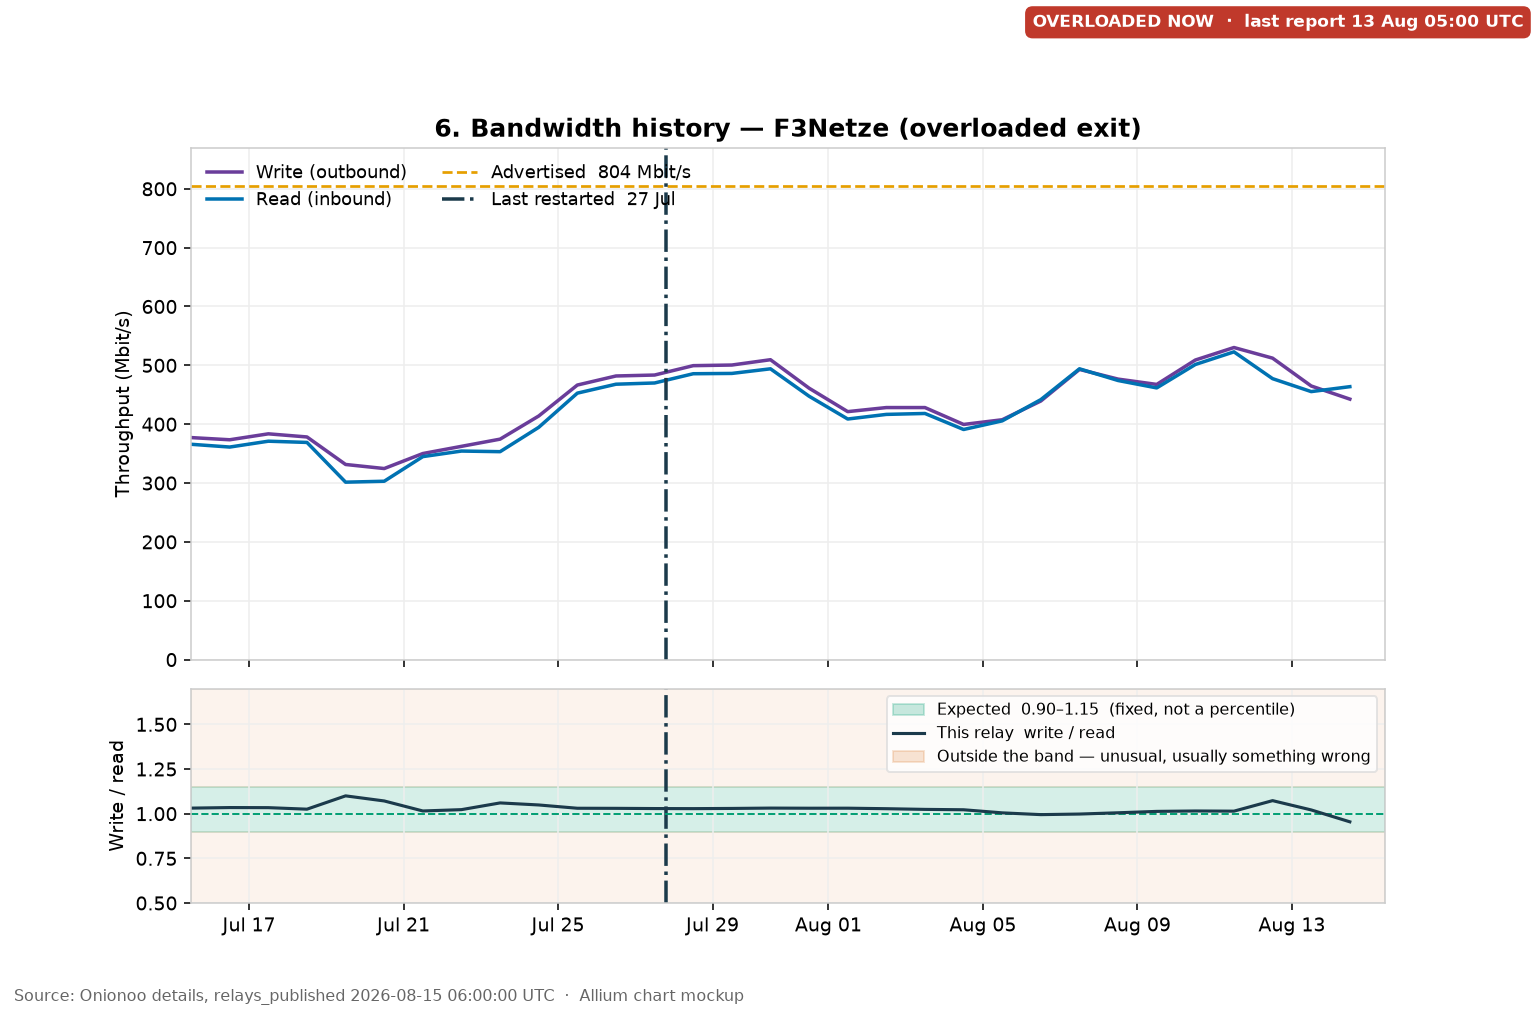
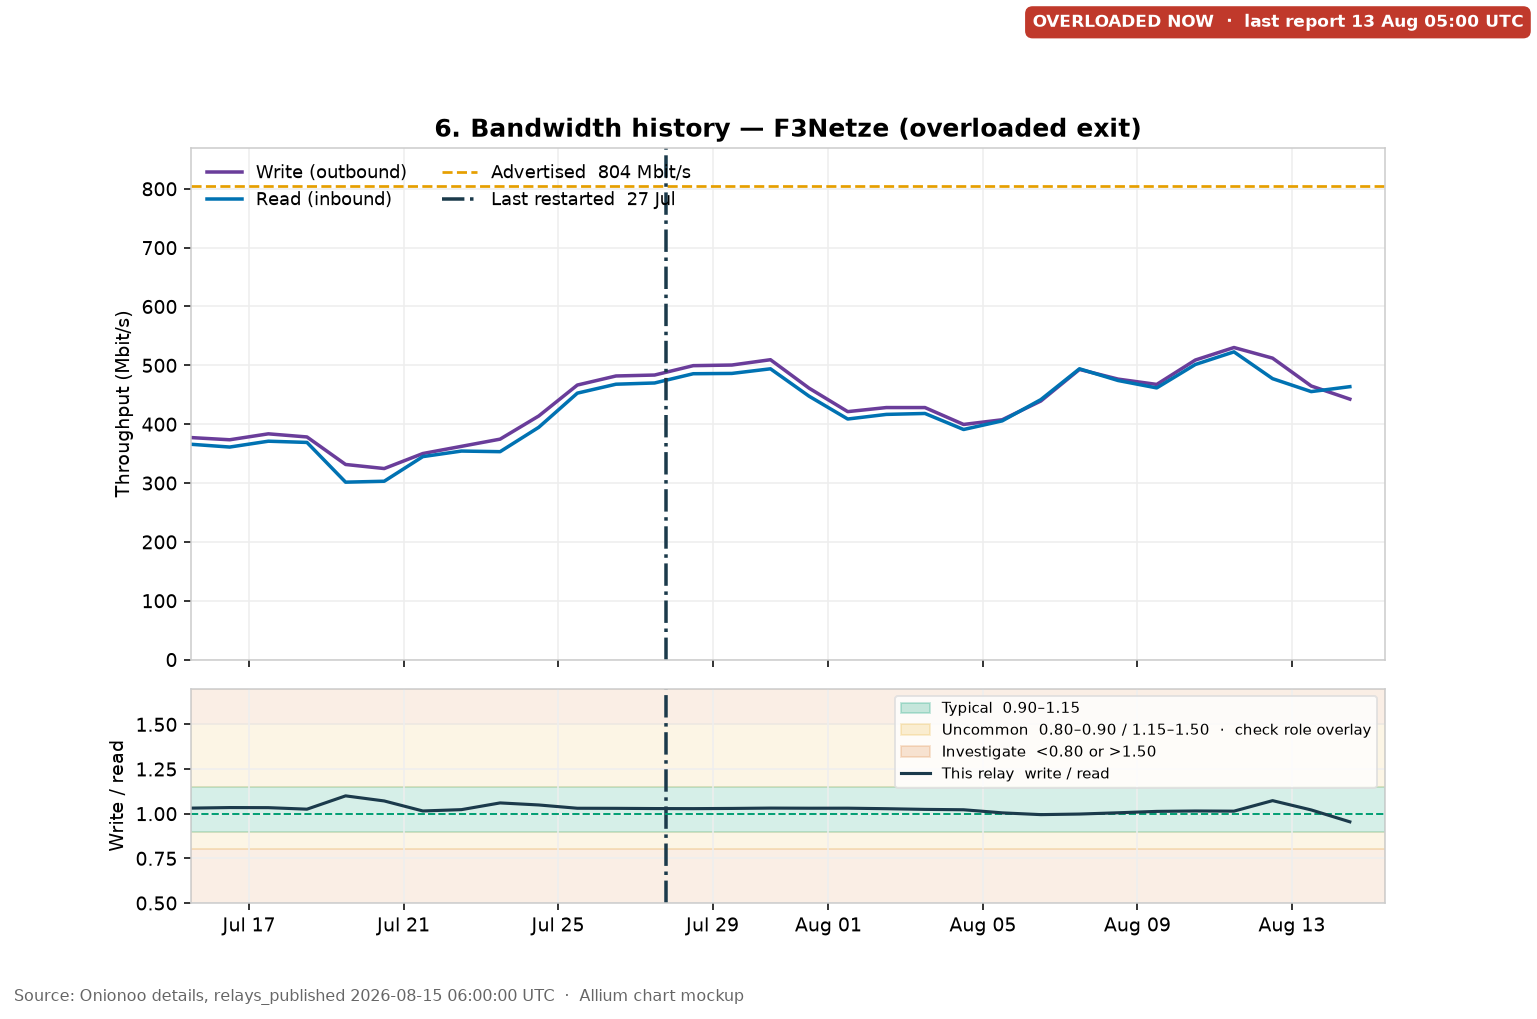
Split write/read into typical, uncommon, and investigate
0.90–1.15 is a typicality band, not an outlier alarm. 1.20 is uncommon
(6.3% of 1M relays, mostly Guards). Red is reserved for <0.80 or >1.50
(2.2% of 1M) — directory authorities and genuinely lopsided relays.

Changed region(s): [[0.5621, 0.6693, 0.9057, 0.791]]

diff --git a/docs/features/planned/charts/generate_relay_page_chart_variations.py b/docs/features/planned/charts/generate_relay_page_chart_variations.py
@@ -43,12 +43,16 @@ NAVY = "#1B3A4B"
 BAD = "#C0392B"
 RESTART = NAVY
 OVERLOAD = BAD
-# Frozen expected write/read range — not a live percentile.
-# Full-network Onionoo census (2026-08-15 19:00, ≥50 KB/s):
-# 1M p10–p90 0.965–1.130, median 1.021. 6M/1Y/5Y tighter.
+# Two frozen write/read layers — not live percentiles.
+# Typical 0.90–1.15 = 1M p10–p90 plus room (89.8% of relays ≥50 KB/s).
+# Investigate <0.80 or >1.50 = rare (2.2% of 1M). 1.20 is uncommon, not an
+# outlier: 6.3% of 1M relays, mostly Guards (Guard p90 is 1.17).
 # A DoS that hits everyone would move a percentile band and hide the event.
 RATIO_LO = 0.90
 RATIO_HI = 1.15
+RATIO_INVESTIGATE_LO = 0.80
+RATIO_INVESTIGATE_HI = 1.50
+AMBER = ORANGE
 TH4R = "27A06581F1CE22D1BA4D160F6E7C7AABAC176242"
 F3NETZE = "3C89C80E2699FB6358BBB64FDC9547AFCB5C03F7"
 PIRATE = "DD32947397C5E6A5FC0D6A6BBE5CD008DEC1A60B"
@@ -923,10 +927,14 @@ def overlay_values(ts, series):
 def ratio_legend_handles(overlays=None):
     handles = [
         Patch(facecolor=GREEN, alpha=0.22, edgecolor=GREEN,
-              label=f"Expected  {RATIO_LO:.2f}–{RATIO_HI:.2f}  (fixed, not a percentile)"),
-        Line2D([0], [0], color=NAVY, linewidth=1.6, label="This relay  write / read"),
+              label=f"Typical  {RATIO_LO:.2f}–{RATIO_HI:.2f}"),
+        Patch(facecolor=AMBER, alpha=0.16, edgecolor=AMBER,
+              label=f"Uncommon  {RATIO_INVESTIGATE_LO:.2f}–{RATIO_LO:.2f} / "
+                    f"{RATIO_HI:.2f}–{RATIO_INVESTIGATE_HI:.2f}  ·  check role overlay"),
         Patch(facecolor=BAD, alpha=0.16, edgecolor=BAD,
-              label="Outside the expected range — unusual, usually something wrong"),
+              label=f"Investigate  <{RATIO_INVESTIGATE_LO:.2f} or "
+                    f">{RATIO_INVESTIGATE_HI:.2f}"),
+        Line2D([0], [0], color=NAVY, linewidth=1.6, label="This relay  write / read"),
     ]
     overlays = overlays or {}
     if overlays.get("role"):
@@ -945,9 +953,11 @@ def ratio_legend_handles(overlays=None):
 def _plot_ratio_strip(axr, ts, read_m, write_m, events, overlays=None):
     overlays = overlays or {}
     ratio = np.array([w / r if r else np.nan for w, r in zip(write_m, read_m)])
+    axr.axhspan(0.45, RATIO_INVESTIGATE_LO, color=BAD, alpha=0.10, zorder=0)
+    axr.axhspan(RATIO_INVESTIGATE_LO, RATIO_LO, color=AMBER, alpha=0.10, zorder=0)
     axr.axhspan(RATIO_LO, RATIO_HI, color=GREEN, alpha=0.16, zorder=0)
-    axr.axhspan(0.45, RATIO_LO, color=BAD, alpha=0.07, zorder=0)
-    axr.axhspan(RATIO_HI, 1.85, color=BAD, alpha=0.07, zorder=0)
+    axr.axhspan(RATIO_HI, RATIO_INVESTIGATE_HI, color=AMBER, alpha=0.10, zorder=0)
+    axr.axhspan(RATIO_INVESTIGATE_HI, 1.85, color=BAD, alpha=0.10, zorder=0)
     axr.axhline(1.0, color=GREEN, linestyle="--", linewidth=1.0, zorder=1)
     role = overlay_values(ts, overlays.get("role"))
     if role is not None:
@@ -955,12 +965,12 @@ def _plot_ratio_strip(axr, ts, read_m, write_m, events, overlays=None):
     op = overlay_values(ts, overlays.get("operator"))
     if op is not None:
         axr.plot(ts, op, color=GRAY, linestyle=":", linewidth=1.6, zorder=2)
-    in_band = (ratio >= RATIO_LO) & (ratio <= RATIO_HI)
-    if in_band.any():
-        y = np.ma.masked_where(~in_band, ratio)
+    investigate = (ratio < RATIO_INVESTIGATE_LO) | (ratio > RATIO_INVESTIGATE_HI)
+    if (~investigate).any():
+        y = np.ma.masked_where(investigate, ratio)
         axr.plot(ts, y, color=NAVY, linewidth=1.7, zorder=3)
-    if (~in_band).any():
-        y = np.ma.masked_where(in_band, ratio)
+    if investigate.any():
+        y = np.ma.masked_where(~investigate, ratio)
         axr.plot(ts, y, color=BAD, linewidth=2.0, zorder=4)
     draw_event_lines(axr, events)
     pad_xlim(axr, ts)
@@ -1010,14 +1020,14 @@ def bandwidth_a_dual_line(ts, read_m, write_m, advertised_mbit, events, publishe
     fam_out = (overlays or {}).get("family_outliers") or 0
     caption(
         fig, published,
-        f"Story: this relay mean write/read {mean_ratio:.2f}, inside the fixed "
-        f"{RATIO_LO:.2f}–{RATIO_HI:.2f} expected range (not a live percentile — "
-        f"a network DoS would move a percentile band and hide it). Exit+Guard "
-        f"peers and this operator’s family median sit on top of it. "
-        f"{fam_out} of {fam_n} family relays have a month-mean above 1.15; "
-        f"this one does not. Delivered write ~{np.mean(write_m):.0f} Mbit/s "
-        f"({used:.0f}% of advertised). Overload is a now-badge, not a time "
-        f"range — Onionoo has no incident history.",
+        f"Story: this relay mean write/read {mean_ratio:.2f}, inside typical "
+        f"{RATIO_LO:.2f}–{RATIO_HI:.2f}. Uncommon is amber (1.20 is not an "
+        f"outlier — 6% of 1M relays, mostly Guards). Investigate is red, only "
+        f"below {RATIO_INVESTIGATE_LO:.2f} or above {RATIO_INVESTIGATE_HI:.2f} "
+        f"(2% of 1M). Exit+Guard peers and this operator’s family median sit "
+        f"on top. {fam_out} of {fam_n} family relays have a month-mean above "
+        f"1.15; this one does not. Delivered write ~{np.mean(write_m):.0f} "
+        f"Mbit/s ({used:.0f}% of advertised). Overload is a now-badge.",
     )
     save(fig, out_paths)
 

diff --git a/docs/features/planned/charts/analyze_write_read_ratios.py b/docs/features/planned/charts/analyze_write_read_ratios.py
@@ -238,6 +238,34 @@ def plot_hist(values, title, out_path, lo=0.90, hi=1.15):
     plt.close(fig)
 
 
+def plot_hist_zones(values, out_path):
+    """Typical vs uncommon vs investigate — 1.20 is in the amber shoulder."""
+    fig, ax = plt.subplots(figsize=(10.8, 5.6))
+    clipped = [v for v in values if 0.4 <= v <= 2.0]
+    ax.hist(clipped, bins=80, color=BLUE, alpha=0.70, edgecolor="white")
+    ax.axvspan(0.40, 0.80, color=BAD, alpha=0.12)
+    ax.axvspan(0.80, 0.90, color=ORANGE, alpha=0.12)
+    ax.axvspan(0.90, 1.15, color=GREEN, alpha=0.20)
+    ax.axvspan(1.15, 1.50, color=ORANGE, alpha=0.12)
+    ax.axvspan(1.50, 2.00, color=BAD, alpha=0.12)
+    ax.axvline(1.0, color=GREEN, linestyle="--", linewidth=1.2)
+    ax.axvline(1.20, color=NAVY, linestyle=":", linewidth=1.4)
+    ax.annotate(
+        "1.20  ·  uncommon, not investigate\n"
+        "6.3% of 1M relays  ·  mostly Guards",
+        xy=(1.20, 900), xytext=(1.42, 1600),
+        fontsize=8.5, color=NAVY,
+        arrowprops=dict(arrowstyle="->", color=NAVY),
+        bbox=dict(boxstyle="round,pad=0.35", fc="#f7f7f7", ec="#dddddd"),
+    )
+    ax.set_xlim(0.4, 2.0)
+    ax.set_xlabel("Write / read  (per-relay ratio of means)")
+    ax.set_ylabel("Relays")
+    ax.set_title("1-month write/read zones  ·  ≥50 KB/s   ·   green typical · amber uncommon · red investigate")
+    fig.savefig(out_path)
+    plt.close(fig)
+
+
 def main():
     parser = argparse.ArgumentParser()
     parser.add_argument("--bandwidth", default="/tmp/onionoo/bandwidth_all.json")
@@ -458,7 +486,11 @@ def main():
     save_both(
         "ratio_survey_hist_1m.png",
         plot_hist, box_period.get("1_month") or [],
-        "1-month write/read  ·  all relays ≥ 50 KB/s  ·  green = 0.90–1.15",
+        "1-month write/read  ·  all relays ≥ 50 KB/s  ·  green = 0.90–1.15 typical",
+    )
+    save_both(
+        "ratio_survey_hist_zones.png",
+        plot_hist_zones, box_period.get("1_month") or [],
     )
 
     # Console summary

diff --git a/docs/features/planned/charts/generate_onionoo_chart_mockups.py b/docs/features/planned/charts/generate_onionoo_chart_mockups.py
@@ -406,20 +406,24 @@ def chart_bandwidth_history(bw_doc, details_relays, published, out_paths):
             )
 
         ratio = [w / r if r else float("nan") for w, r in zip(w_mbit, r_mbit)]
+        axr.axhspan(0.50, 0.80, color=VERM, alpha=0.10)
+        axr.axhspan(0.80, 0.90, color=ORANGE, alpha=0.10)
         axr.axhspan(0.90, 1.15, color=GREEN, alpha=0.16)
-        axr.axhspan(0.50, 0.90, color=VERM, alpha=0.07)
-        axr.axhspan(1.15, 1.70, color=VERM, alpha=0.07)
+        axr.axhspan(1.15, 1.50, color=ORANGE, alpha=0.10)
+        axr.axhspan(1.50, 1.70, color=VERM, alpha=0.10)
         axr.axhline(1.0, color=GREEN, linestyle="--", linewidth=1.0)
         axr.plot(w_ts, ratio, color=NAVY, linewidth=1.6)
         axr.set_ylim(0.50, 1.70)
         axr.set_ylabel("Write / read")
         axr.legend(handles=[
             Patch(facecolor=GREEN, alpha=0.22, edgecolor=GREEN,
-                  label="Expected  0.90–1.15  (fixed, not a percentile)"),
-            Line2D([0], [0], color=NAVY, lw=1.6, label="This relay  write / read"),
+                  label="Typical  0.90–1.15"),
+            Patch(facecolor=ORANGE, alpha=0.16, edgecolor=ORANGE,
+                  label="Uncommon  0.80–0.90 / 1.15–1.50  ·  check role overlay"),
             Patch(facecolor=VERM, alpha=0.16, edgecolor=VERM,
-                  label="Outside the band — unusual, usually something wrong"),
-        ], loc="upper right", fontsize=8, frameon=True, edgecolor="#dddddd")
+                  label="Investigate  <0.80 or >1.50"),
+            Line2D([0], [0], color=NAVY, lw=1.6, label="This relay  write / read"),
+        ], loc="upper right", fontsize=7.5, frameon=True, edgecolor="#dddddd")
         axr.xaxis.set_major_formatter(mdates.DateFormatter("%b %d"))
     ax.set_ylabel("Throughput (Mbit/s)")
     ax.set_title("6. Bandwidth history — F3Netze (overloaded exit)")

diff --git a/docs/features/planned/charts/write-read-band.md b/docs/features/planned/charts/write-read-band.md
@@ -8,12 +8,27 @@
 
 ## Recommendation
 
-Keep the frozen band at **0.90–1.15**.
+Two frozen layers. Do not treat “outside 0.90–1.15” as “investigate.”
 
-The earlier 400-relay 1-month sample (p10–p90 0.97–1.12) was not lucky. A
-census of every published graph, all four Onionoo periods, says the same
-shape. Do not replace this with a live percentile. Do not tighten to
-0.95–1.10. Do not widen to 0.80–1.25.
+| Layer | Range | What it means | 1M share (≥50 KB/s) |
+|-------|-------|---------------|---------------------|
+| **Typical** | 0.90–1.15 | Where healthy relays live. 1M p10–p90 plus room. | 89.8% |
+| **Uncommon** | 0.80–0.90 and 1.15–1.50 | Shoulder. Look at the role overlay. **1.20 is here.** | 8.0% |
+| **Investigate** | <0.80 or >1.50 | Rare. Something unusual, or a directory authority. | 2.2% |
+
+0.90–1.15 is a **typicality** band, not an outlier alarm. The histogram
+makes that obvious: 1.20 is past the peak but still a real pile of
+relays (647, 6.3%), and 302 of the 492 relays between 1.15 and 1.30 are
+Guards. Guard p90 is 1.17. Painting 1.20 red would cry wolf.
+
+Investigate is **<0.80 or >1.50**. That is 231 relays on 1M (2.2%): 15
+read-heavy, 216 write-heavy. The worst write-heavy cases are directory
+authorities (moria1 41×, gabelmoo 28×). An Exit at 1.20 is uncommon for
+an Exit (role overlay at 1.01) but not rare-for-anyone; red is reserved
+for rare-for-anyone.
+
+Do not replace either layer with a live percentile. A network DoS that
+hits every exit would move p10–p90 and hide the event.
 
 ## How the survey was done
 
@@ -47,8 +62,8 @@ Onionoo graph coverage at this snapshot:
 
 Median is 1.01–1.02 on every period. Longer graphs are tighter because
 they average more buckets. **1 month is the noisiest and the chart
-default**, so the band has to fit 1M. 0.90–1.15 is 1M p10–p90
-(0.965–1.130) with a little room.
+default**, so the typical band has to fit 1M. 0.90–1.15 is 1M p10–p90
+(0.965–1.130) with a little room. It is not the investigate line.
 
 ![Write/read by period](mockups/ratio_survey_period_box.png)
 
@@ -64,8 +79,8 @@ default**, so the band has to fit 1M. 0.90–1.15 is 1M p10–p90
 Exits are almost 1:1. Guards sit a bit write-heavy (median 1.04, p90
 1.17). That is a **role shape**, not a reason to widen the alarm. The
 role-peer overlay is how the operator sees “the whole Guard set moved.”
-A single Guard at 1.17 is unusual vs bidirectional circuits, not unusual
-vs other Guards.
+A single Guard at 1.17 is uncommon vs bidirectional circuits, typical
+vs other Guards. Amber + role overlay, not red.
 
 ![Write/read by role](mockups/ratio_survey_role_box_1m.png)
 
@@ -91,7 +106,7 @@ Share of ≥50 KB/s relays whose *month-mean* sits inside each candidate:
 |------|---:|---:|---:|---:|---------|
 | 0.80–1.25 | 95.0% | 97.7% | 98.3% | 99.2% | Too wide. Hides the 500 relays above 1.25 |
 | 0.85–1.20 | 93.4% | 96.8% | 97.3% | 98.9% | Only +3.6 points vs 0.90–1.15 on 1M |
-| **0.90–1.15** | **89.8%** | **95.4%** | **96.5%** | **98.0%** | **Keep. Matches 1M p10–p90 plus room** |
+| **0.90–1.15** | **89.8%** | **95.4%** | **96.5%** | **98.0%** | **Typical layer. Not investigate.** |
 | 0.92–1.12 | 86.1% | 93.3% | 95.3% | 97.3% | Clips Guard p90 (1.17) |
 | 0.95–1.10 | 80.1% | 90.6% | 93.8% | 96.4% | Cries wolf on a normal 1M Guard |
 
@@ -99,11 +114,31 @@ Share of ≥50 KB/s relays whose *month-mean* sits inside each candidate:
 
 ![1-month histogram](mockups/ratio_survey_hist_1m.png)
 
-## Who is outside 0.90–1.15 on 1 month
+## Who is outside typical, and who is actually rare
 
-1,048 of 10,312 relays (10.2%). **Asymmetric**: 901 above 1.15, 147
-below 0.90. Only 15 are below 0.80; 500 are above 1.25. Write-heavy is
-the real tail. Do not lower the floor to “balance” the band.
+1,048 of 10,312 1M relays (10.2%) sit outside 0.90–1.15. That is the
+**shoulder plus the tail**, not a 10% investigate list.
+
+| 1M bucket | n | share | Mostly |
+|-----------|--:|------:|--------|
+| <0.80 investigate | 15 | 0.1% | Middles |
+| 0.80–0.90 uncommon | 132 | 1.3% | Middles (103) |
+| 0.90–1.15 typical | 9,264 | 89.8% | everyone |
+| 1.15–1.20 uncommon | 254 | 2.5% | Guards (153) |
+| 1.20–1.30 uncommon | 238 | 2.3% | Guards (149) |
+| 1.30–1.50 uncommon | 193 | 1.9% | Guards (112) |
+| 1.50–2.00 investigate | 112 | 1.1% | Guards + middles |
+| >2.00 investigate | 104 | 1.0% | dirauths + a few broken |
+
+**Asymmetric**: 901 above 1.15, 147 below 0.90. Write-heavy is the real
+tail. Do not lower the floor to “balance” the band.
+
+1.20 is the middle of the amber shoulder. On 6M it is rarer (3.1% above
+1.20) and on 5Y it is rare (1.0%) — a long-period mean of 1.20 is more
+interesting than a 1M mean of 1.20. The frozen investigate line still
+stays at 1.50 so a noisy month does not turn red.
+
+![1-month zones: typical / uncommon / investigate](mockups/ratio_survey_hist_zones.png)
 
 The worst 20 are not a mystery. Most of the extreme write-heavy middles
 are **directory authorities** (moria1 41×, gabelmoo 28×, longclaw,
@@ -111,21 +146,25 @@ maatuska, bastet, dannenberg, dizum, Serge, tor26). They serve directory
 documents. Write >> read is expected. The band should mark them.
 
 The F3 / relayon family (n=24 in this cut) still has four members above
-1.15 (2.10, 1.86, 1.65, 1.47). The example relay `3C89…03F7` (F3Netze)
-is 1.026 / 1.028 / 1.023 / 1.010 on 1M / 6M / 1Y / 5Y — inside the band
-on every period.
+1.15 (2.10, 1.86, 1.65, 1.47). Three of those are investigate (>1.50);
+1.47 is amber uncommon. The example relay `3C89…03F7` (F3Netze) is
+1.026 / 1.028 / 1.023 / 1.010 on 1M / 6M / 1Y / 5Y — typical on every
+period.
 
 ## What we considered and rejected
 
 - **Live p10–p90 as the green band.** A network DoS that hits every exit
   would move the percentile and hide the event. Role / operator medians
   are overlays on a frozen band, not a replacement for it.
-- **0.90–1.20 to swallow Guard p90.** That also swallows Exit+Guard p90
-  (1.15) and hides more real write-heavy exits. Guard write-heaviness
-  belongs on the role overlay.
-- **Per-role bands.** The question on a relay page is “are circuits
-  bidirectional?”, not “am I normal for a Guard?” One band, role line
-  on top.
+- **Treat 0.90–1.15 as the investigate line.** That paints 10% of 1M
+  relays red, including hundreds of ordinary Guards at 1.16–1.30. Two
+  layers: typical vs rare.
+- **0.90–1.20 as a single wider typical band.** Swallows Guard p90 and
+  hides Exit+Guard p90. Keep typical at 0.90–1.15; put 1.20 in amber.
+- **Per-role investigate lines.** The question on a relay page is “are
+  circuits bidirectional?”, not “am I normal for a Guard?” One typical
+  band, role overlay for the shoulder, one rare-event line.
+- **Live p95 as investigate.** Same DoS problem as a live typical band.
 
 ## Regenerating
 

diff --git a/docs/features/planned/charts/relay-page-charts.md b/docs/features/planned/charts/relay-page-charts.md
@@ -303,9 +303,9 @@ Do not run C on 6M/1Y/5Y. If a 1Y series starts at `first_seen` (th4r:
 ### R2. Bandwidth (read / write)
 
 Same data: F3Netze `read_history.1_month` / `write_history.1_month` (daily
-buckets). Red is reserved for problems (current overload badge; ratio
-outside the band). Write is purple, read is blue, advertised is orange
-dashed.
+buckets). Red is reserved for problems (current overload badge; write/read
+**investigate** <0.80 or >1.50). 1.20 is amber uncommon, not red. Write
+is purple, read is blue, advertised is orange dashed.
 
 #### Overload is a now-indicator, not a time series
 
@@ -355,15 +355,19 @@ add live aggregates as lines on top of it.
 
 | Layer | What | Why |
 |-------|------|-----|
-| Expected 0.90–1.15 | Frozen. Full-network Onionoo census (2026-08-15 19:00, 10,312 relays ≥50 KB/s): 1M p10–p90 is 0.965–1.130, median 1.021. 6M/1Y/5Y are tighter (p90 1.07 / 1.06 / 1.04). 0.90–1.15 is that 1M shape with a little room. See [write-read-band.md](write-read-band.md). | Alarm that does not move when the network does |
+| Typical 0.90–1.15 | Frozen typicality band. Full-network census: 1M p10–p90 is 0.965–1.130. **1.20 is uncommon, not investigate** (6.3% of 1M, mostly Guards). | Where healthy relays live |
+| Uncommon 0.80–0.90 / 1.15–1.50 | Amber. Check the role overlay — a Guard at 1.20 is normal-for-Guards; an Exit at 1.20 is not. | Shoulder. Do not paint it red |
+| Investigate <0.80 or >1.50 | Frozen rare-event line. 2.2% of 1M. Dirauths and genuinely lopsided relays. | The actual “look at this” alarm |
 | This relay | Navy line | The thing the operator is debugging |
 | Role peers | Dashed. Median write/read of the same flag set (Exit+Guard for F3Netze) | Did the whole role move? |
 | This operator | Dotted. Median of the AROI / contact / effective-family group (F3: 24 relays). Omit if the group is 1. Use **median**, not mean — F3's mean is 1.17 because 4 of 24 members sit at 1.5–2.2 | Is this relay the odd one in the family? |
 
-How to read a dip:
+How to read the strip:
 
-- Relay leaves the band, role and family stay → this relay (DoS on this host, rate-limit, bad peer, config).
-- Role line leaves the band too → role-wide / network event. The fixed band is what tells you it is abnormal.
+- Line stays green (0.90–1.15) → typical. Done.
+- Line in amber (1.15–1.50 or 0.80–0.90), role overlay still near 1.0 → uncommon for this role; worth a glance, not a fire drill. 1.20 lives here.
+- Line in amber, role overlay moved too → role-wide / network. The frozen typical band is what tells you the role moved.
+- Line in red (<0.80 or >1.50) → rare. Investigate (or it is a directory authority).
 - Family leaves, role stays → operator / AS / upstream.
 
 Do not replace the green band with "this week's p25–p75." That is the
@@ -544,10 +548,11 @@ period control (1M / 6M / 1Y / 5Y; omit unpublished). C stays 1-month-only.
 2. Render **build-time SVG** in the Jinja templates. One static Chart.js
    on 11k pages is the wrong default for a static site.
 3. Color: red only for problems this relay owns (local Running gap,
-   current overload badge, write/read outside 0.90–1.15, missing flags).
-   Shared/network gaps are orange + gray, not red. Write is purple, read
-   is blue, advertised is orange, last-restarted is navy. The write/read
-   expected range is a frozen constant, not a live percentile. Restart is
+   current overload badge, write/read **investigate** <0.80 or >1.50,
+   missing flags). 1.20 is amber uncommon, not red. Shared/network gaps
+   are orange + gray, not red. Write is purple, read is blue, advertised
+   is orange, last-restarted is navy. Typical 0.90–1.15 and investigate
+   <0.80 / >1.50 are frozen constants, not live percentiles. Restart is
    an `axvline` at `last_restarted`. Overload is **not** on the time
    axis: if `current_overload_status` (from `evaluate_overload`) says
    the relay is currently overloaded, draw a now-badge; otherwise omit
